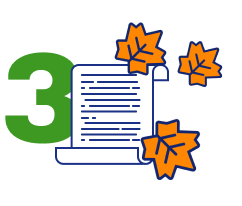
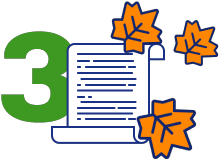
image size of "3" and added padding to card-bodies

diff --git a/components/GoalsAndMission/GoalsAndMission.js b/components/GoalsAndMission/GoalsAndMission.js
@@ -4,22 +4,37 @@ import {
   OurGoalsCardContent,
   OurMissionCardContent
 } from "../GoalsAndMissionCardContent/GoalsAndMissionCardContent"
+import styled from 'styled-components';
+
+const Container_GM = styled(Container)`
+  .card:nth-child(2) .card-body {
+    padding: 0 2.5rem;
+  }
+
+  .card:nth-child(2) .col {
+    padding: 0 1.5rem;
+  }
+
+  .card:nth-child(3) .card-body {
+    padding: 0 6rem;
+  }
+`
 
 const GoalsAndMission = () => {
   return (
-    <Container>
+    <Container_GM>
       <Row>
         <Col>
-          <h1 className="fw-bold m-5">Our Mission &amp; Goals</h1>
-          <AboutPagesCard title="Our Mission">
-            <OurMissionCardContent />
-          </AboutPagesCard>
+          <h1 className="fw-bold m-5">Our Goals &amp; Mission</h1>
           <AboutPagesCard title="Our Goals">
             <OurGoalsCardContent />
           </AboutPagesCard>
+          <AboutPagesCard title="Our Mission">
+            <OurMissionCardContent />
+          </AboutPagesCard>
         </Col>
       </Row>
-    </Container>
+    </Container_GM>
   )
 }
 
